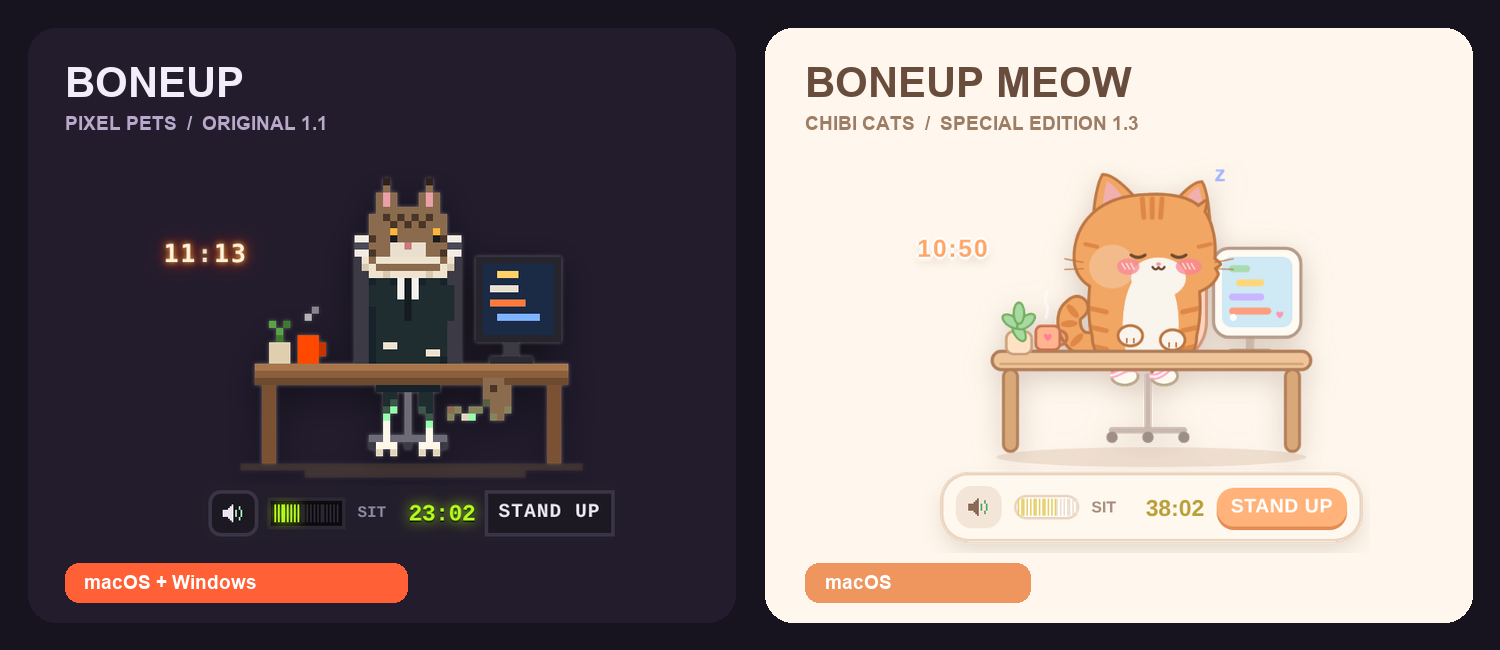
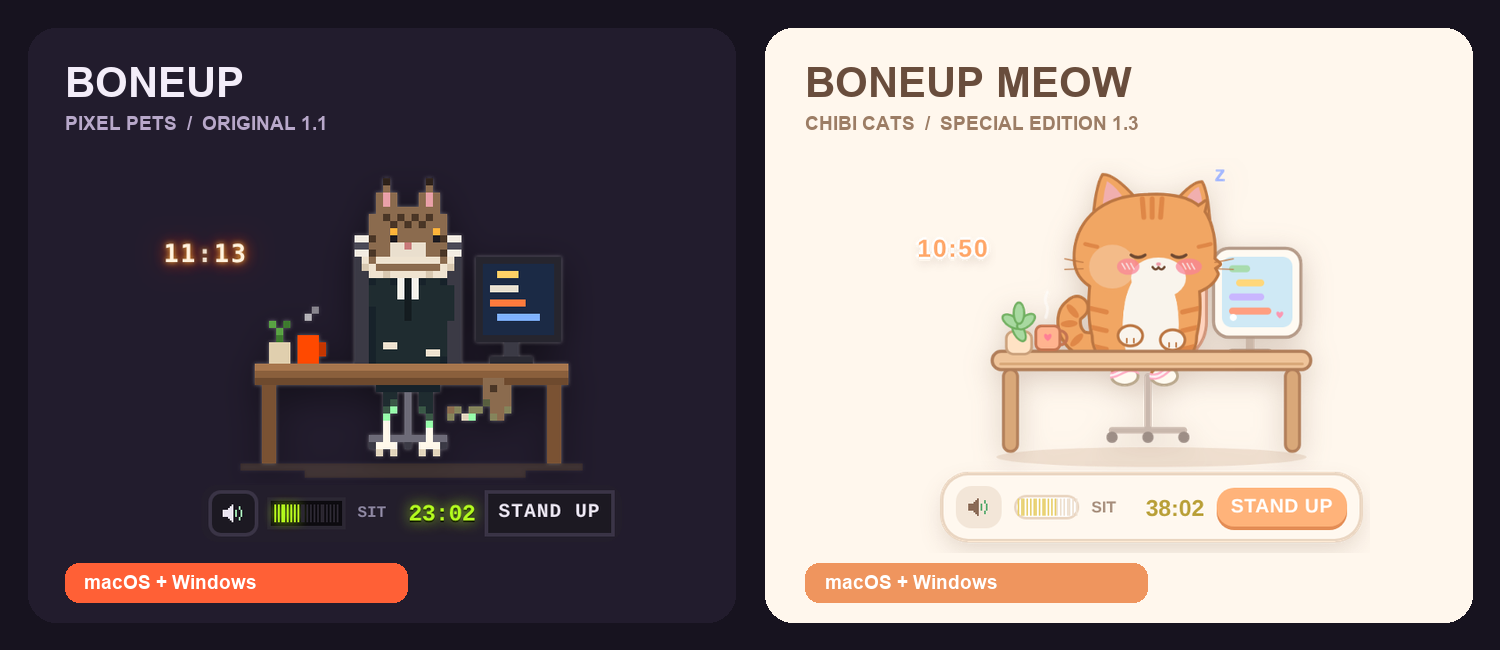
Illustrate every Meow cat and add Windows downloads
Show all nine real 1.3 click reactions beside Chinese and English descriptions. Add Windows download buttons and installation steps while preserving the original 1.1 galleries and Mac downloads.

Changed region(s): [[0.6133, 0.8615, 0.7667, 0.9538]]

diff --git a/MEOW.md b/MEOW.md
@@ -1,16 +1,16 @@
-<div align="center"><h1>BoneUp Meow 🐾</h1><p><strong>Nine little cats. One friendly reminder to stand up.</strong></p><p>Special Edition 1.3 · macOS 12+ · Apple silicon / Intel</p><p><strong>English</strong> | <a href="MEOW.zh-CN.md">简体中文</a></p></div>
+<div align="center"><h1>BoneUp Meow 🐾</h1><p><strong>Nine little cats. One friendly reminder to stand up.</strong></p><p>Special Edition 1.3 · macOS / Windows · Mac: Apple silicon / Intel</p><p><strong>English</strong> | <a href="MEOW.zh-CN.md">简体中文</a></p></div>
 
-<p align="center"><a href="https://github.com/chartercharon26/BoneUp/releases/download/v1.3.0-meow/BoneUp-Meow-1.3-macOS.zip"><img src="download-meow.svg" alt="Download BoneUp Meow for macOS" width="248"></a></p>
+<p align="center"><a href="https://github.com/chartercharon26/BoneUp/releases/download/v1.3.0-meow/BoneUp-Meow-1.3-macOS.zip"><img src="download-meow.svg" alt="Download BoneUp Meow for macOS" width="248"></a> <a href="https://github.com/chartercharon26/BoneUp/releases/download/v1.3.0-meow/BoneUp-Meow-1.3-Windows.zip"><img src="download-meow-windows.svg" alt="Download BoneUp Meow for Windows" width="248"></a></p>
 
 ![The nine BoneUp Meow cats](meow-preview.png)
 
-BoneUp Meow (installed as **BoneUp 喵**) is the softer, cat-only special edition of BoneUp. Keep sitting and your cat gradually turns grey, slumps and becomes a pale bone cat. Get up, then click **STAND UP** to help it recover.
+BoneUp Meow (named **BoneUp 喵** on Mac) is the softer, cat-only special edition of BoneUp. Keep sitting and your cat gradually turns grey, slumps and becomes a pale bone cat. Get up, then click **STAND UP** to help it recover.
 
 ## Download
 
-[**Download BoneUp Meow 1.3 for macOS**](https://github.com/chartercharon26/BoneUp/releases/download/v1.3.0-meow/BoneUp-Meow-1.3-macOS.zip) · [Release notes](https://github.com/chartercharon26/BoneUp/releases/tag/v1.3.0-meow)
+[**Download BoneUp Meow 1.3 for macOS**](https://github.com/chartercharon26/BoneUp/releases/download/v1.3.0-meow/BoneUp-Meow-1.3-macOS.zip) · [**Download for Windows**](https://github.com/chartercharon26/BoneUp/releases/download/v1.3.0-meow/BoneUp-Meow-1.3-Windows.zip) · [Release notes](https://github.com/chartercharon26/BoneUp/releases/tag/v1.3.0-meow)
 
-This special edition is **macOS only**. For original BoneUp on macOS or Windows, see the [main downloads](README.md#download).
+This special edition is available for **macOS and Windows**. Original BoneUp remains in the [main downloads](README.md#download).
 
 ## A little less lively. A little more bones.
 
@@ -27,29 +27,50 @@ This special edition is **macOS only**. For original BoneUp on macOS or Windows,
 
 ## Install and choose English
 
+### Mac
+
 1. Extract the entire ZIP and open `BoneUp-Meow-1.3.dmg`.
 2. Drag **BoneUp 喵** into **Applications** (the DMG shortcut may be labelled **应用程序**).
 3. Open the app from Applications and look for **🐾** in the menu bar.
 4. Choose **🐾 → 语言 / Language → English**.
 
-On first launch the app enables opening at login and creates Desktop / Dock shortcuts. Disable **Open at login** from the paw menu if desired. The download is ad-hoc signed, not Apple-notarized; review macOS Privacy & Security if it is blocked.
+On first launch the Mac app enables opening at login and creates Desktop / Dock shortcuts. Disable **Open at login** from the paw menu if desired. The download is ad-hoc signed, not Apple-notarized; review macOS Privacy & Security if it is blocked.
+
+### Windows 10 / 11
+
+1. Download the Windows ZIP and choose **Extract All**. Do not run it inside the ZIP.
+2. Keep all folders together and run `install.bat`. It uses the local .NET Framework compiler to install the app.
+3. The app starts after installation. You can reopen **BoneUp Meow** from the Desktop or Start menu.
+4. Right-click the cat icon in the system tray, then choose **语言 / Language → English**.
+
+The app installs to `%LOCALAPPDATA%\BoneUpMeow`. If the compiler is missing, install Microsoft .NET Framework 4.8 and try again. The ZIP includes an English / Chinese quick start and a Chinese illustrated Windows guide.
 
 ## Meet the cats
 
-![Nine actual cat interactions](meow-actions.png)
+Click while your cat is **at its desk, working or working late, before it becomes a bone cat**. Another click will not interrupt a routine. In the bone state, clicking only makes its jaw chatter. These real 1.3 guide screenshots have Chinese speech bubbles; the English captions explain every reaction.
 
+<table>
+<tr>
+<td width="50%" valign="top"><p><strong>Tuxedo</strong></p><img src="meow-click-tuxedo.png" alt="奶牛猫 / Tuxedo" width="360"><p>Growls and swipes a paw across the screen, leaving three pink claw marks.</p></td>
+<td width="50%" valign="top"><p><strong>Grey & White</strong></p><img src="meow-click-greywhite.png" alt="灰白猫 / Grey & White" width="360"><p>Sings a little tune in its own meows, with musical notes floating overhead.</p></td>
+</tr>
+<tr>
+<td width="50%" valign="top"><p><strong>Snow White</strong></p><img src="meow-click-snow.png" alt="小白猫 / Snow White" width="360"><p>Blushes, sends up little hearts and shyly says it loves you.</p></td>
+<td width="50%" valign="top"><p><strong>Cream</strong></p><img src="meow-click-cream.png" alt="奶油猫 / Cream" width="360"><p>Tucks into a loaf, takes a purring nap, then wakes up.</p></td>
+</tr>
+<tr>
+<td width="50%" valign="top"><p><strong>Ginger (default)</strong></p><img src="meow-click-ginger.png" alt="橘猫（默认） / Ginger (default)" width="360"><p>Stares at you, deliberately pushes the mug off the desk, then gives a cheeky meow after it breaks.</p></td>
+<td width="50%" valign="top"><p><strong>Grey Tabby</strong></p><img src="meow-click-greytabby.png" alt="灰狸花 / Grey Tabby" width="360"><p>Raises both paws for a big stretch, then lets out a long yawn.</p></td>
+</tr>
+<tr>
+<td width="50%" valign="top"><p><strong>Calico</strong></p><img src="meow-click-calico.png" alt="三花猫 / Calico" width="360"><p>Bats a yarn ball from side to side, purring and forgetting all about work.</p></td>
+<td width="50%" valign="top"><p><strong>Black Cat</strong></p><img src="meow-click-black.png" alt="小黑猫 / Black Cat" width="360"><p>Turns off the lights for spooky sounds and glowing eyes, gives a sudden hiss, then switches the lights back on and purrs.</p></td>
+</tr>
+<tr>
+<td colspan="2" align="center"><p><strong>Siamese</strong></p><img src="meow-click-siamese.png" alt="暹罗猫 / Siamese" width="360"><p>Lets out a loud yowl, with sound waves and a shaking scene.</p></td>
+</tr>
+</table>
 
-| Cat | Click interaction |
-| --- | --- |
-| Tuxedo | Scratches the screen, leaving three pink claw marks. |
-| Grey & White | Sings a little tune with floating musical notes. |
-| Snow White | Blushes and sends you a few shy hearts. |
-| Cream | Curls into a loaf and takes a purring nap. |
-| Ginger | The default cat: pushes a cup off the desk. |
-| Grey Tabby | Stretches as far as possible, then yawns. |
-| Calico | Gets distracted by a ball of yarn. |
-| Black Cat | Turns out the lights for a spooky surprise. |
-| Siamese | Lets out an impressively loud meow. |
 
 Switch with **🐾 → Desk cat → Skin**. Click the SIT time to set a 1–60-minute sitting interval; use the speaker button for volume and Focus mode. Workday schedules and Task Mode remain available from the paw menu.
 
@@ -59,7 +80,7 @@ Switch with **🐾 → Desk cat → Skin**. Click the SIT time to set a 1–60-m
 
 ## Illustrated guides
 
-The ZIP includes both guides, quick-start instructions and English / Chinese terms. You can also download them separately:
+The Mac ZIP includes both guides; the Windows ZIP includes a Chinese Windows guide and an English / Chinese quick start. The separate guides below show Mac installation; their cat interaction pictures apply to both editions:
 
 - [English illustrated guide (HTML, open locally in a browser)](https://github.com/chartercharon26/BoneUp/releases/download/v1.3.0-meow/BoneUp-Meow-1.3-User-Guide-English.html)
 - [简体中文图文手册 (PDF)](https://github.com/chartercharon26/BoneUp/releases/download/v1.3.0-meow/BoneUp-Meow-1.3-User-Guide-zh-CN.pdf)
@@ -68,4 +89,4 @@ The ZIP includes both guides, quick-start instructions and English / Chinese ter
 
 Personal-use terms: [English](MEOW-TERMS.txt) / [中文](MEOW-TERMS.zh-CN.txt). All rights reserved. This repository distributes installers and documentation, not an open-source licence. GitHub's automatic **Source code** ZIP / TAR are not app installers.
 
-[Report an issue in English or Chinese](https://github.com/chartercharon26/BoneUp/issues). Include **BoneUp Meow 1.3**, your macOS version and what happened.
+[Report an issue in English or Chinese](https://github.com/chartercharon26/BoneUp/issues). Include **BoneUp Meow 1.3**, your operating system version and what happened.

diff --git a/README.md b/README.md
@@ -5,9 +5,9 @@
 <h1 align="center">A little company. A gentle nudge to move.</h1>
 <p align="center">Pixel animals or soft chibi cats? Choose your corner-of-the-screen companion.</p>
 
-<p align="center"><a href="https://github.com/chartercharon26/BoneUp/releases/download/v1.1.0/BoneUp-1.1-macOS.zip"><img src="download-macos.svg" alt="Download original BoneUp for macOS" width="222"></a> <a href="https://github.com/chartercharon26/BoneUp/releases/download/v1.1.0/BoneUp-1.1-Windows.zip"><img src="download-windows.svg" alt="Download original BoneUp for Windows" width="222"></a> <a href="https://github.com/chartercharon26/BoneUp/releases/download/v1.3.0-meow/BoneUp-Meow-1.3-macOS.zip"><img src="download-meow.svg" alt="Download BoneUp Meow for macOS" width="222"></a></p>
+<p align="center"><a href="https://github.com/chartercharon26/BoneUp/releases/download/v1.1.0/BoneUp-1.1-macOS.zip"><img src="download-macos.svg" alt="Download original BoneUp for macOS" width="222"></a> <a href="https://github.com/chartercharon26/BoneUp/releases/download/v1.1.0/BoneUp-1.1-Windows.zip"><img src="download-windows.svg" alt="Download original BoneUp for Windows" width="222"></a> <a href="https://github.com/chartercharon26/BoneUp/releases/download/v1.3.0-meow/BoneUp-Meow-1.3-macOS.zip"><img src="download-meow.svg" alt="Download BoneUp Meow for macOS" width="222"></a> <a href="https://github.com/chartercharon26/BoneUp/releases/download/v1.3.0-meow/BoneUp-Meow-1.3-Windows.zip"><img src="download-meow-windows.svg" alt="Download BoneUp Meow for Windows" width="222"></a></p>
 
-<p align="center">Original: macOS / Windows · Meow: macOS · Both speak English & 简体中文</p>
+<p align="center">Original + Meow: macOS / Windows · Both speak English & 简体中文</p>
 
 ## Sit too long. Your pet shows it.
 
@@ -66,9 +66,36 @@ Another click will not interrupt a routine; wait until it ends. Adjust the sound
 
 ![The nine chibi cats](meow-preview.png)
 
-**9 chibi cats** that scratch, sing, loaf, push cups and turn out the lights. A separate Mac app that can live alongside original BoneUp.
+**9 chibi cats** that scratch, sing, loaf, push cups and turn out the lights. Available for macOS and Windows, installed separately from original BoneUp.
 
-[Download for macOS](https://github.com/chartercharon26/BoneUp/releases/download/v1.3.0-meow/BoneUp-Meow-1.3-macOS.zip) · [Explore the Meow special edition](MEOW.md)
+#### Click a cat. Nine little personalities.
+
+Click while your cat is **at its desk, working or working late, before it becomes a bone cat**. Another click will not interrupt a routine. In the bone state, clicking only makes its jaw chatter. These real 1.3 guide screenshots have Chinese speech bubbles; the English captions explain every reaction.
+
+<table>
+<tr>
+<td width="50%" valign="top"><p><strong>Tuxedo</strong></p><img src="meow-click-tuxedo.png" alt="奶牛猫 / Tuxedo" width="360"><p>Growls and swipes a paw across the screen, leaving three pink claw marks.</p></td>
+<td width="50%" valign="top"><p><strong>Grey & White</strong></p><img src="meow-click-greywhite.png" alt="灰白猫 / Grey & White" width="360"><p>Sings a little tune in its own meows, with musical notes floating overhead.</p></td>
+</tr>
+<tr>
+<td width="50%" valign="top"><p><strong>Snow White</strong></p><img src="meow-click-snow.png" alt="小白猫 / Snow White" width="360"><p>Blushes, sends up little hearts and shyly says it loves you.</p></td>
+<td width="50%" valign="top"><p><strong>Cream</strong></p><img src="meow-click-cream.png" alt="奶油猫 / Cream" width="360"><p>Tucks into a loaf, takes a purring nap, then wakes up.</p></td>
+</tr>
+<tr>
+<td width="50%" valign="top"><p><strong>Ginger (default)</strong></p><img src="meow-click-ginger.png" alt="橘猫（默认） / Ginger (default)" width="360"><p>Stares at you, deliberately pushes the mug off the desk, then gives a cheeky meow after it breaks.</p></td>
+<td width="50%" valign="top"><p><strong>Grey Tabby</strong></p><img src="meow-click-greytabby.png" alt="灰狸花 / Grey Tabby" width="360"><p>Raises both paws for a big stretch, then lets out a long yawn.</p></td>
+</tr>
+<tr>
+<td width="50%" valign="top"><p><strong>Calico</strong></p><img src="meow-click-calico.png" alt="三花猫 / Calico" width="360"><p>Bats a yarn ball from side to side, purring and forgetting all about work.</p></td>
+<td width="50%" valign="top"><p><strong>Black Cat</strong></p><img src="meow-click-black.png" alt="小黑猫 / Black Cat" width="360"><p>Turns off the lights for spooky sounds and glowing eyes, gives a sudden hiss, then switches the lights back on and purrs.</p></td>
+</tr>
+<tr>
+<td colspan="2" align="center"><p><strong>Siamese</strong></p><img src="meow-click-siamese.png" alt="暹罗猫 / Siamese" width="360"><p>Lets out a loud yowl, with sound waves and a shaking scene.</p></td>
+</tr>
+</table>
+
+
+[Download for macOS](https://github.com/chartercharon26/BoneUp/releases/download/v1.3.0-meow/BoneUp-Meow-1.3-macOS.zip) · [Download for Windows](https://github.com/chartercharon26/BoneUp/releases/download/v1.3.0-meow/BoneUp-Meow-1.3-Windows.zip) · [Explore the Meow special edition](MEOW.md)
 
 ## Work, break, repeat
 
@@ -81,9 +108,9 @@ Another click will not interrupt a routine; wait until it ends. Adjust the sound
 | Edition | Platform | Getting started |
 | --- | --- | --- |
 | [Original BoneUp 1.1](https://github.com/chartercharon26/BoneUp/releases/tag/v1.1.0) | macOS / Windows | Mac: extract, open the DMG, drag into Applications. Windows: extract all files and run `install.bat`. |
-| [BoneUp Meow 1.3](https://github.com/chartercharon26/BoneUp/releases/tag/v1.3.0-meow) | macOS 12+ · Apple silicon / Intel | Extract, open the DMG and drag **BoneUp 喵** into Applications. |
+| [BoneUp Meow 1.3](https://github.com/chartercharon26/BoneUp/releases/tag/v1.3.0-meow) | macOS 12+ · Apple silicon / Intel; Windows 10 / 11 | Mac: extract, open the DMG and drag **BoneUp 喵** into Applications. Windows: extract all files, then run `install.bat`. |
 
-Both editions support **English / 简体中文** and include bilingual guides. Choose **语言 / Language** from the app menu. GitHub's automatic **Source code** archives are not installers.
+Both editions support **English / 简体中文** and include bilingual instructions. The Meow Windows package includes a Chinese illustrated guide and an English / Chinese quick start. Choose **语言 / Language** from the app menu. GitHub's automatic **Source code** archives are not installers.
 
 ## Guides and feedback
 

diff --git a/README.zh-CN.md b/README.zh-CN.md
@@ -5,9 +5,9 @@
 <h1 align="center">工作有人陪，久坐有人催。</h1>
 <p align="center">像素小动物，还是软萌小猫？选一个，放在你的桌面角落。</p>
 
-<p align="center"><a href="https://github.com/chartercharon26/BoneUp/releases/download/v1.1.0/BoneUp-1.1-macOS.zip"><img src="download-macos.svg" alt="Download original BoneUp for macOS" width="222"></a> <a href="https://github.com/chartercharon26/BoneUp/releases/download/v1.1.0/BoneUp-1.1-Windows.zip"><img src="download-windows.svg" alt="Download original BoneUp for Windows" width="222"></a> <a href="https://github.com/chartercharon26/BoneUp/releases/download/v1.3.0-meow/BoneUp-Meow-1.3-macOS.zip"><img src="download-meow.svg" alt="Download BoneUp Meow for macOS" width="222"></a></p>
+<p align="center"><a href="https://github.com/chartercharon26/BoneUp/releases/download/v1.1.0/BoneUp-1.1-macOS.zip"><img src="download-macos.svg" alt="Download original BoneUp for macOS" width="222"></a> <a href="https://github.com/chartercharon26/BoneUp/releases/download/v1.1.0/BoneUp-1.1-Windows.zip"><img src="download-windows.svg" alt="Download original BoneUp for Windows" width="222"></a> <a href="https://github.com/chartercharon26/BoneUp/releases/download/v1.3.0-meow/BoneUp-Meow-1.3-macOS.zip"><img src="download-meow.svg" alt="Download BoneUp Meow for macOS" width="222"></a> <a href="https://github.com/chartercharon26/BoneUp/releases/download/v1.3.0-meow/BoneUp-Meow-1.3-Windows.zip"><img src="download-meow-windows.svg" alt="Download BoneUp Meow for Windows" width="222"></a></p>
 
-<p align="center">原版：Mac / Windows · 喵特别版：Mac · 两版均支持中文 / English</p>
+<p align="center">原版与喵特别版：Mac / Windows · 两版均支持中文 / English</p>
 
 ## 坐太久，它真的会变骨头
 
@@ -66,9 +66,36 @@
 
 ![九只Q版小猫](meow-preview.png)
 
-**9 只 Q 版小猫**，挠屏幕、推杯子、变面包、关灯吓人。独立安装，可与原版共存。
+**9 只 Q 版小猫**，挠屏幕、推杯子、变面包、关灯吓人。Mac 与 Windows 均可用，独立安装，可与原版共存。
 
-[Mac 下载](https://github.com/chartercharon26/BoneUp/releases/download/v1.3.0-meow/BoneUp-Meow-1.3-macOS.zip) · [查看特别版图文介绍](MEOW.zh-CN.md)
+#### 点一下，九只猫各有一出小戏
+
+在**工作或加班时、坐在桌前且尚未变成骨头猫**的状态下点击，触发下面的小动作；正在表演时不会被再次点击打断。骨头状态下点击只会动下巴。图片均来自 1.3 图文手册。
+
+<table>
+<tr>
+<td width="50%" valign="top"><p><strong>奶牛猫</strong></p><img src="meow-click-tuxedo.png" alt="奶牛猫 / Tuxedo" width="360"><p>低吼一声，伸爪挠屏幕，留下三道粉色爪印。</p></td>
+<td width="50%" valign="top"><p><strong>灰白猫</strong></p><img src="meow-click-greywhite.png" alt="灰白猫 / Grey & White" width="360"><p>用自己的猫叫唱小曲，头顶飘出音符。</p></td>
+</tr>
+<tr>
+<td width="50%" valign="top"><p><strong>小白猫</strong></p><img src="meow-click-snow.png" alt="小白猫 / Snow White" width="360"><p>害羞脸红，冒出爱心，轻声表达喜欢。</p></td>
+<td width="50%" valign="top"><p><strong>奶油猫</strong></p><img src="meow-click-cream.png" alt="奶油猫 / Cream" width="360"><p>缩成一条面包打盹，呼噜呼噜，然后醒来。</p></td>
+</tr>
+<tr>
+<td width="50%" valign="top"><p><strong>橘猫（默认）</strong></p><img src="meow-click-ginger.png" alt="橘猫（默认） / Ginger (default)" width="360"><p>先盯着你，故意把桌上的杯子推下去摔碎，再得意地喵一声。</p></td>
+<td width="50%" valign="top"><p><strong>灰狸花</strong></p><img src="meow-click-greytabby.png" alt="灰狸花 / Grey Tabby" width="360"><p>双爪高举伸大懒腰，再打一个长长的哈欠。</p></td>
+</tr>
+<tr>
+<td width="50%" valign="top"><p><strong>三花猫</strong></p><img src="meow-click-calico.png" alt="三花猫 / Calico" width="360"><p>发现毛线球后左扑右扑，兴奋地呼噜，忘记工作。</p></td>
+<td width="50%" valign="top"><p><strong>小黑猫</strong></p><img src="meow-click-black.png" alt="小黑猫 / Black Cat" width="360"><p>关灯后响起诡异音效，黑暗中亮起双眼并突然哈气；再开灯呼噜，问你有没有被吓到。</p></td>
+</tr>
+<tr>
+<td colspan="2" align="center"><p><strong>暹罗猫</strong></p><img src="meow-click-siamese.png" alt="暹罗猫 / Siamese" width="360"><p>超大声嚎一嗓子，出现声波，画面也跟着震动。</p></td>
+</tr>
+</table>
+
+
+[Mac 下载](https://github.com/chartercharon26/BoneUp/releases/download/v1.3.0-meow/BoneUp-Meow-1.3-macOS.zip) · [Windows 下载](https://github.com/chartercharon26/BoneUp/releases/download/v1.3.0-meow/BoneUp-Meow-1.3-Windows.zip) · [查看特别版图文介绍](MEOW.zh-CN.md)
 
 ## 陪你工作，也陪你休息
 
@@ -81,9 +108,9 @@
 | 版本 | 系统 | 安装方法 |
 | --- | --- | --- |
 | [原版 BoneUp 1.1](https://github.com/chartercharon26/BoneUp/releases/tag/v1.1.0) | macOS / Windows | Mac：解压后打开 DMG，拖入应用程序。Windows：全部解压后运行 `install.bat`。 |
-| [BoneUp 喵 1.3 特别版](https://github.com/chartercharon26/BoneUp/releases/tag/v1.3.0-meow) | macOS 12+ · Apple 芯片 / Intel | 解压后打开 DMG，把 **BoneUp 喵**拖入应用程序。 |
+| [BoneUp 喵 1.3 特别版](https://github.com/chartercharon26/BoneUp/releases/tag/v1.3.0-meow) | macOS 12+ · Apple 芯片 / Intel；Windows 10 / 11 | Mac：解压后打开 DMG，拖入应用程序。Windows：全部解压后运行 `install.bat`。 |
 
-两个版本均支持**中文 / English**，安装包附有中英文指南。语言切换在菜单中的 **语言 / Language**。自动生成的 **Source code** 不是安装包。
+两个版本均支持**中文 / English**，Mac 包附中英文图文指南；Windows 包附中英文快速开始和中文图文手册。语言切换在菜单中的 **语言 / Language**。自动生成的 **Source code** 不是安装包。
 
 ## 使用说明与反馈
 
